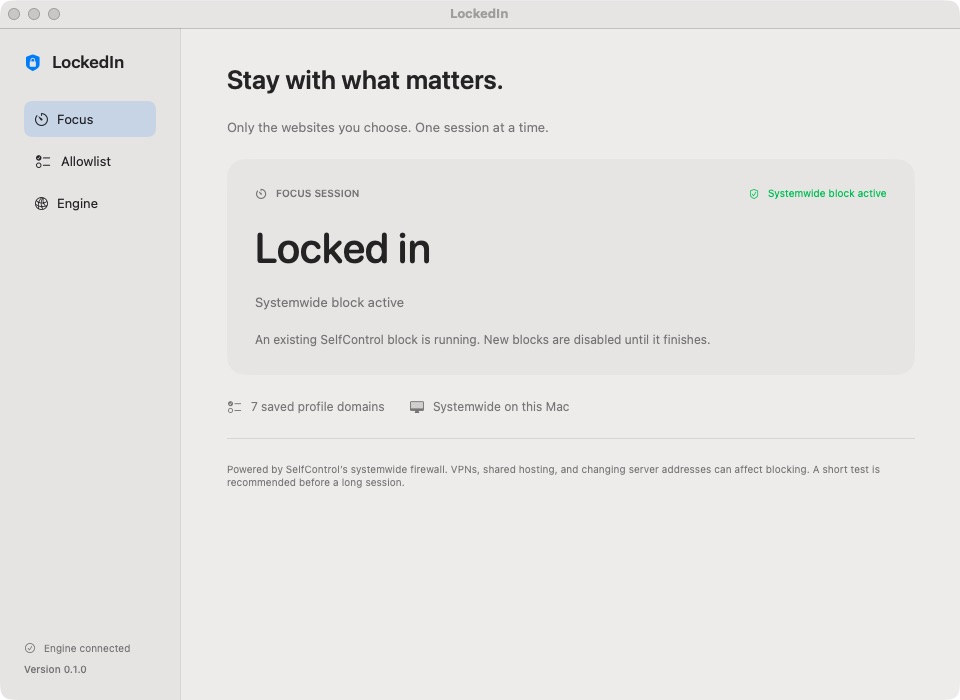
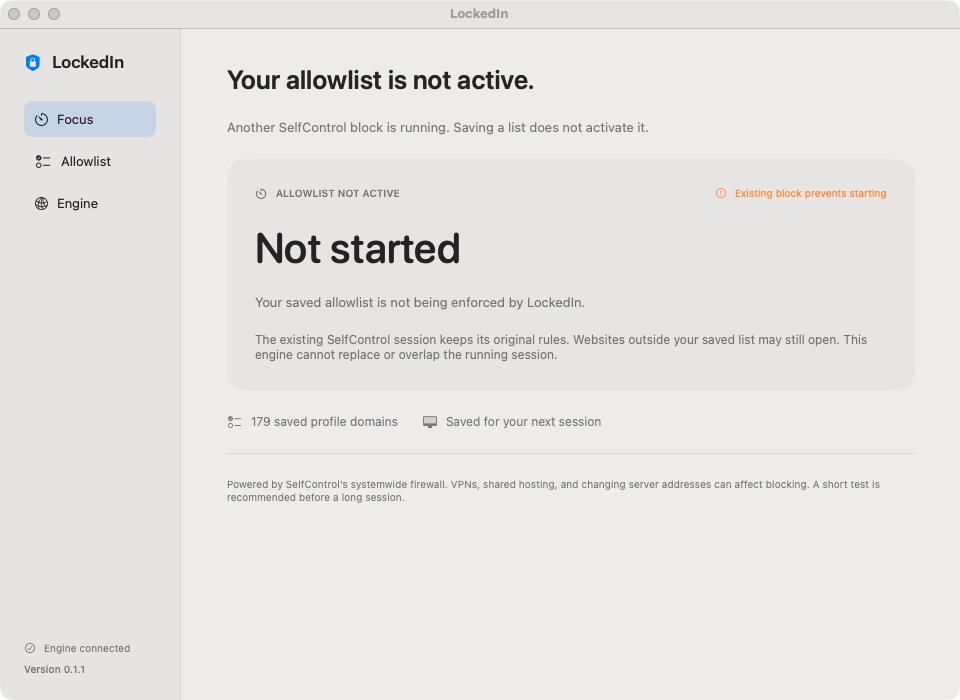
Show the verified inactive-allowlist state in the README [skip ci]

diff --git a/README.md b/README.md
@@ -4,7 +4,7 @@ A Mac app that puts an allowlist at the center of a timed focus session. Choose 
 
 **Current release: 0.1.1 preview. macOS 13 or newer, Apple Silicon and Intel.**
 
-![LockedIn detecting an existing systemwide SelfControl session](docs/locked-in.png)
+![LockedIn explicitly showing the saved allowlist inactive during an existing SelfControl session](docs/locked-in.png)
 
 ## What it does
 
